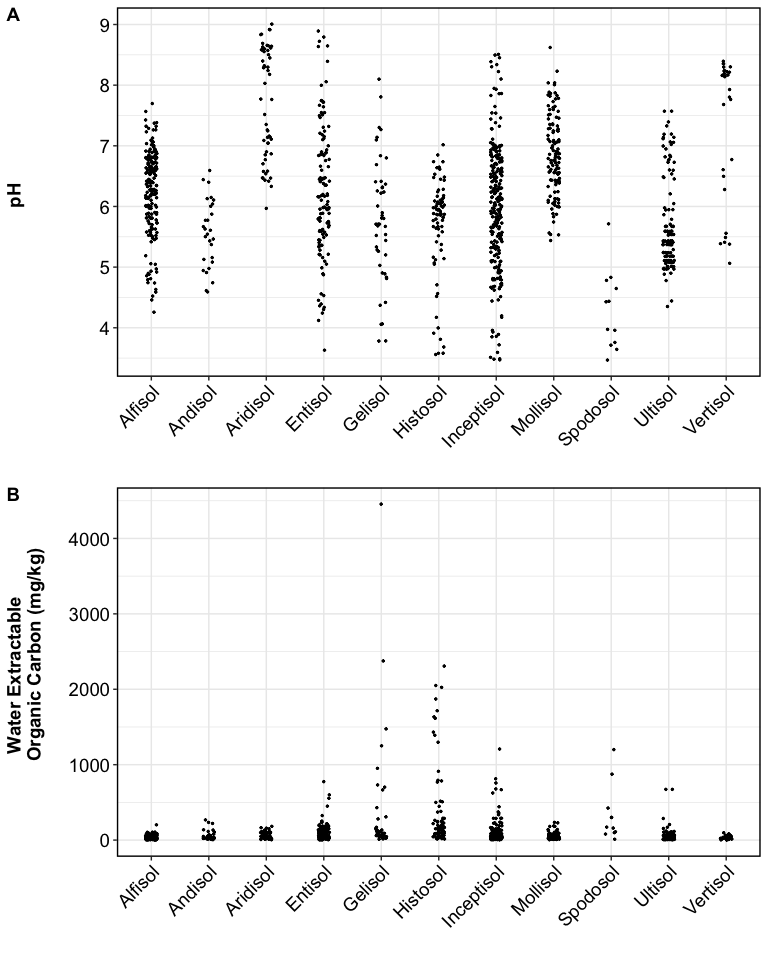
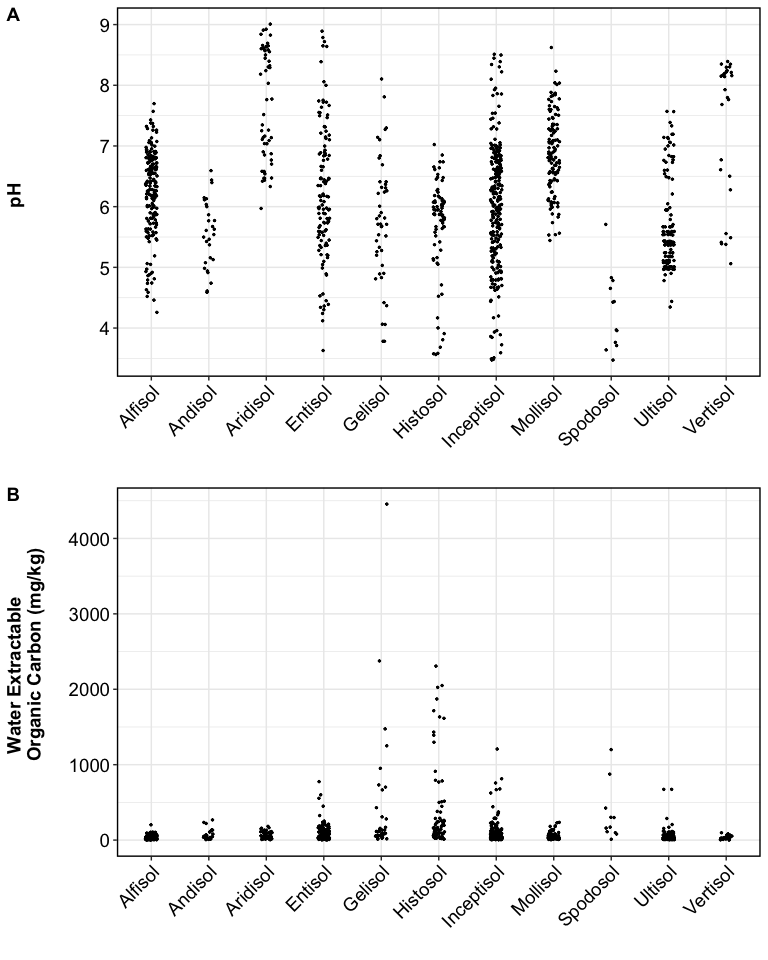
clean figures, add figure names to rmd

diff --git a/2-code/manuscript_figures.md b/2-code/manuscript_figures.md
@@ -12,7 +12,9 @@ sites are marked with “X”.
 
 ![](manuscript_figures_files/figure-gfm/site_counts_ecoregion-1.png)<!-- -->
 
-![](manuscript_figures_files/figure-gfm/map_soil_orders-1.png)<!-- -->
+![](manuscript_figures_files/figure-gfm/site_counts_soils_biomes-1.png)<!-- -->
+
+------------------------------------------------------------------------
 
 How many sites and cores were sampled?
 
@@ -62,13 +64,13 @@ total sampling sets = 569
 
 ### V2
 
-![](manuscript_figures_files/figure-gfm/unnamed-chunk-3-1.png)<!-- -->
+![](manuscript_figures_files/figure-gfm/raincloud_SOM-1.png)<!-- -->
 
-![](manuscript_figures_files/figure-gfm/unnamed-chunk-4-1.png)<!-- -->
+![](manuscript_figures_files/figure-gfm/raincloud_bulk-1.png)<!-- -->
 
-![](manuscript_figures_files/figure-gfm/unnamed-chunk-5-1.png)<!-- -->
+![](manuscript_figures_files/figure-gfm/raincloud_nutrients-1.png)<!-- -->
 
-![](manuscript_figures_files/figure-gfm/unnamed-chunk-6-1.png)<!-- -->
+![](manuscript_figures_files/figure-gfm/raincloud_cations-1.png)<!-- -->
 
 ------------------------------------------------------------------------
 
@@ -98,7 +100,7 @@ total sampling sets = 569
 Session Info
 </summary>
 
-Date run: 2026-05-08
+Date run: 2026-05-11
 
     ## R version 4.5.0 (2025-04-11)
     ## Platform: aarch64-apple-darwin20